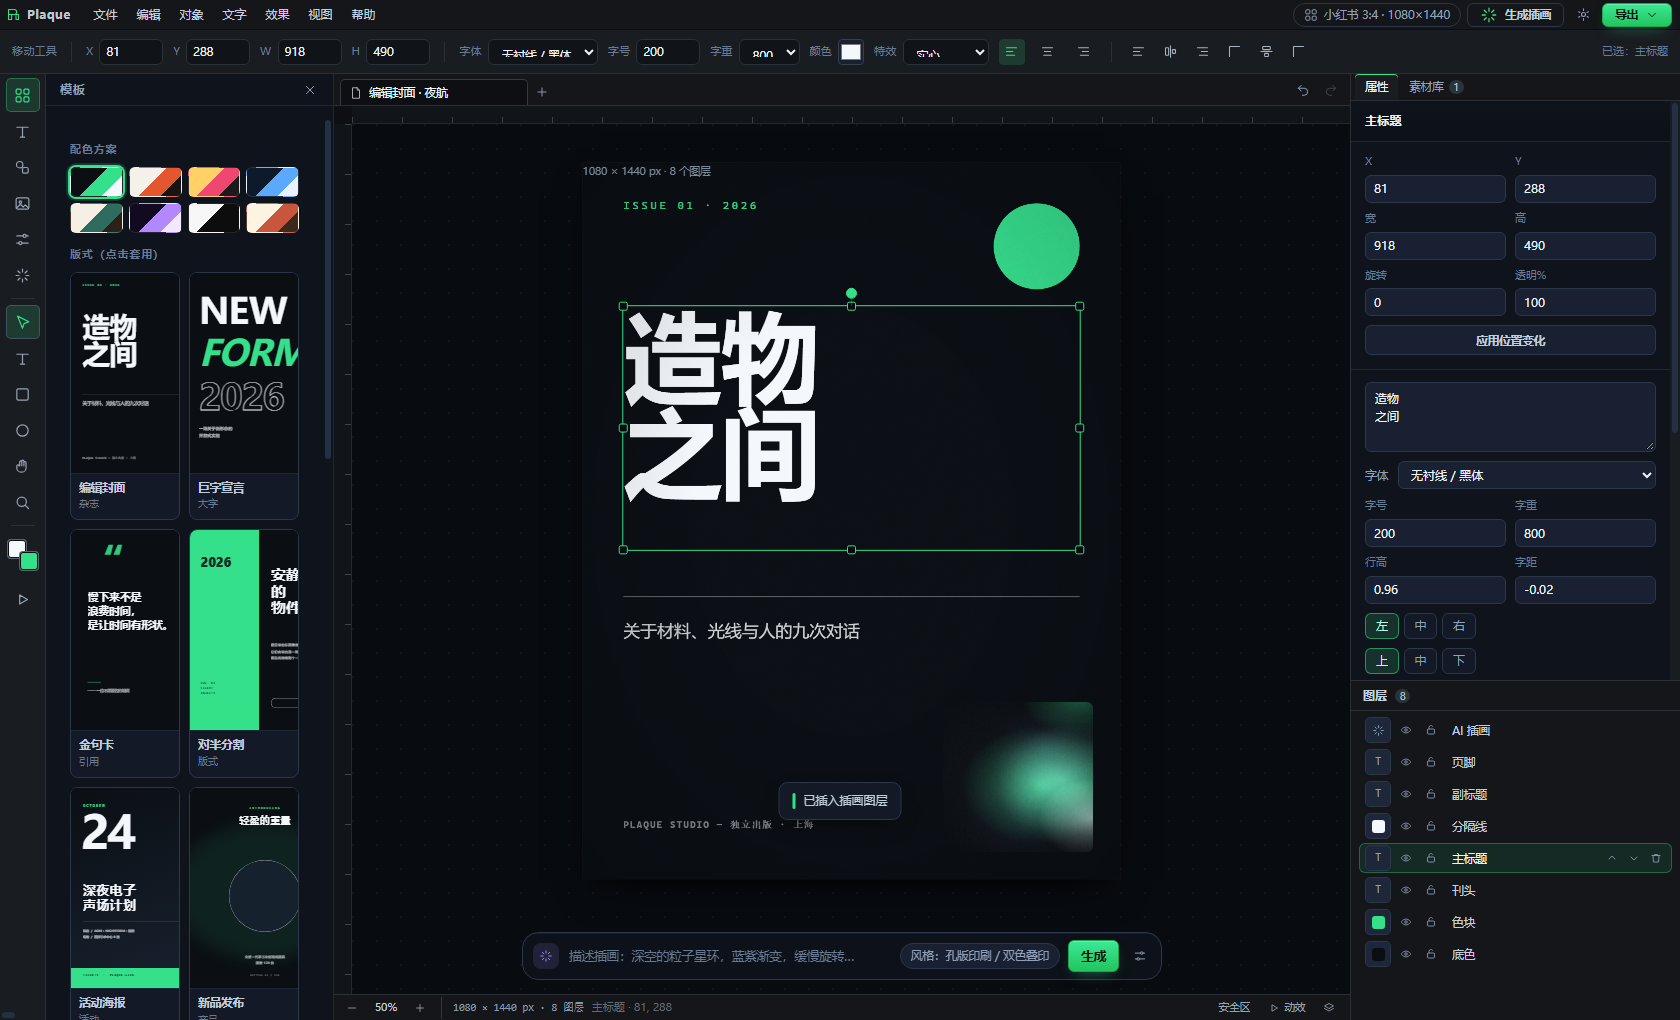
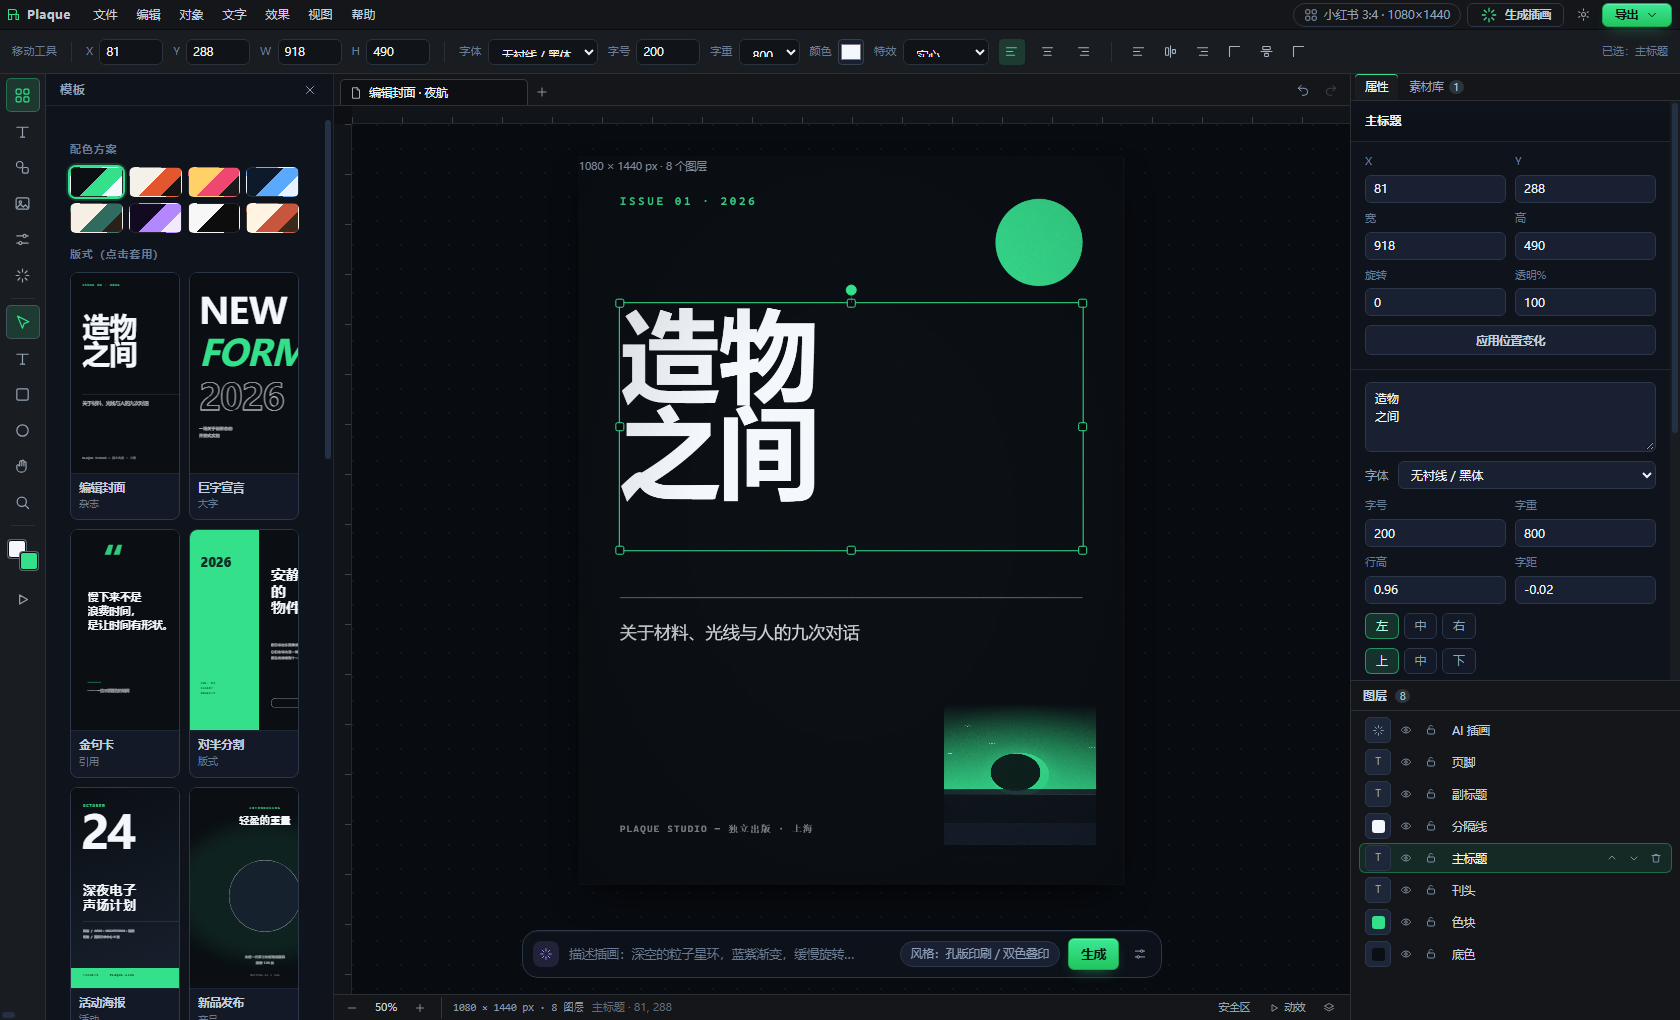
fix(canvas): 修复切画板（A4 等）后版面错乱；缩放同步圆角/描边/阴影；清理底部停靠区 CSS 残留

diff --git a/js/store.js b/js/store.js
@@ -203,16 +203,24 @@
   };
 
   Store.setFrame = function (frame) {
+    if (typeof frame === 'string') frame = DATA.frameById(frame);
+    if (!frame || !frame.w || !frame.h) return;
     const old = this.doc.canvas;
     const sx = frame.w / old.w, sy = frame.h / old.h;
+    const sc = Math.min(sx, sy);
     this.doc.frameId = frame.id;
     this.doc.canvas.w = frame.w;
     this.doc.canvas.h = frame.h;
-    this.doc.canvas.bg = frame.w > 0 ? this.doc.canvas.bg : this.doc.canvas.bg;
-    // 按比例迁移图层
+    // 按比例迁移图层（位置/尺寸/字号/圆角/描边/阴影一起缩放，避免放大后比例走样）
     this.doc.layers.forEach((l) => {
       l.x *= sx; l.y *= sy; l.w *= sx; l.h *= sy;
-      if (l.type === 'text') l.size *= Math.min(sx, sy);
+      if (l.type === 'text') {
+        l.size *= sc;
+        if (l.tracking) l.tracking *= sc;
+      }
+      if (typeof l.radius === 'number') l.radius *= sc;
+      if (typeof l.strokeW === 'number') l.strokeW *= sc;
+      if (l.shadow) { l.shadow.x *= sx; l.shadow.y *= sy; l.shadow.blur *= sc; }
     });
     this.emit('doc'); this.commit('改尺寸');
   };

diff --git a/css/app.css b/css/app.css
@@ -1198,3 +1198,19 @@ kbd{
 .layers-scroll .layer-list{display:flex;flex-direction:column;gap:2px}
 .layers-scroll .layer-row{height:30px}
 .dock-closed .dockright{display:none}
+
+/* —— 画板切换：底部停车区已并入右侧面板，这里去掉 --dock-h 依赖 —— */
+:root{--dock-h:0px}
+.viewport{padding-bottom:96px}
+.promptbar{bottom:16px}
+.toasts{bottom:40px}
+
+/* 画布滚动条隐藏（PS 式：用抓手/缩放平移） */
+.viewport{scrollbar-width:none}
+.viewport::-webkit-scrollbar{width:0;height:0}
+
+/* 画板始终完整可见：视口裁切溢出，缩放锚点仍用 scrollLeft/Top 计算 */
+.stage .viewport{overflow:hidden}
+
+/* 提示条避开常驻 prompt 条 */
+.toasts{bottom:100px}

diff --git a/js/chrome.js b/js/chrome.js
@@ -236,7 +236,7 @@
     if (ls.length === 0) {
       sep();
       add(selectField('画板', DATA.FRAMES.map((f) => ({ id: f.id, name: f.name + ' · ' + f.w + '×' + f.h })), doc.frameId,
-        (v) => Store.setFrame(v)));
+        (v) => { Store.setFrame(DATA.frameById(v) || v); ED.fit(); CH.obRender(); CH.statusRender(); }));
       add(colorField('背景', doc.canvas.bg, (v) => { Store.doc.canvas.bg = v; Store.commit('画布背景'); }));
       sep();
       add(numField('颗粒', (doc.canvas.overlay || {}).grain || 0, (v) => { doc.canvas.overlay.grain = v; Store.commit('颗粒'); }));

diff --git a/README.md b/README.md
@@ -37,6 +37,8 @@ samples/              示例产物（一张 2× PNG，一个单文件网页）
 
 画板尺寸：小红书 3:4、方形 1:1、竖版 9:16、朋友圈 4:5、海报 2:3、A4、A5、Banner 16:9、公众号首图、桌面壁纸、名片、电商主图（12 种）。
 
+**换画板时内容怎么处理**：所有图层按新旧画板的横竖比例分别缩放位置与尺寸，字号/行高/字距/圆角/描边/阴影同步等比缩放，缩放比例自动重算到「完整可见」。所以 3:4 换成 A5、A4 后，版面比例几乎不变，字还是原来的相对大小；换成 16:9 这类宽高比差异大的画板时，版式会被横向拉开——想要更合适的构图，换画板后点一下左侧「模板」里的对应版式即可（模板会按新画板重新排版）。
+
 ### 界面（Photoshop / Illustrator 式布局）
 
 界面按桌面级设计软件的骨架搭：**菜单栏 → 工具选项栏 → 工具箱 / 素材面板 / 文档窗口 / 停靠面板组 → 状态栏**，画布始终是主角。
